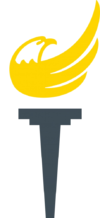
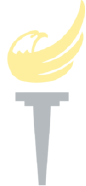
added new images

Changed region(s): [[0.093, 0.0, 1.0, 0.457], [0.186, 0.4839, 0.8372, 1.0]]

diff --git a/myapp/public/stylesheets/style.css b/myapp/public/stylesheets/style.css
@@ -101,7 +101,7 @@ h2, h4 {
   margin-bottom: -2%;
 }
 .second_img {
-  background-image: url('http://localhost:3000/images/IndianaGray.png');
+  background-image: url('http://localhost:3000/images/indiana.svg');
   background-repeat: no-repeat;
   width: 33%;
   height: 33%;
